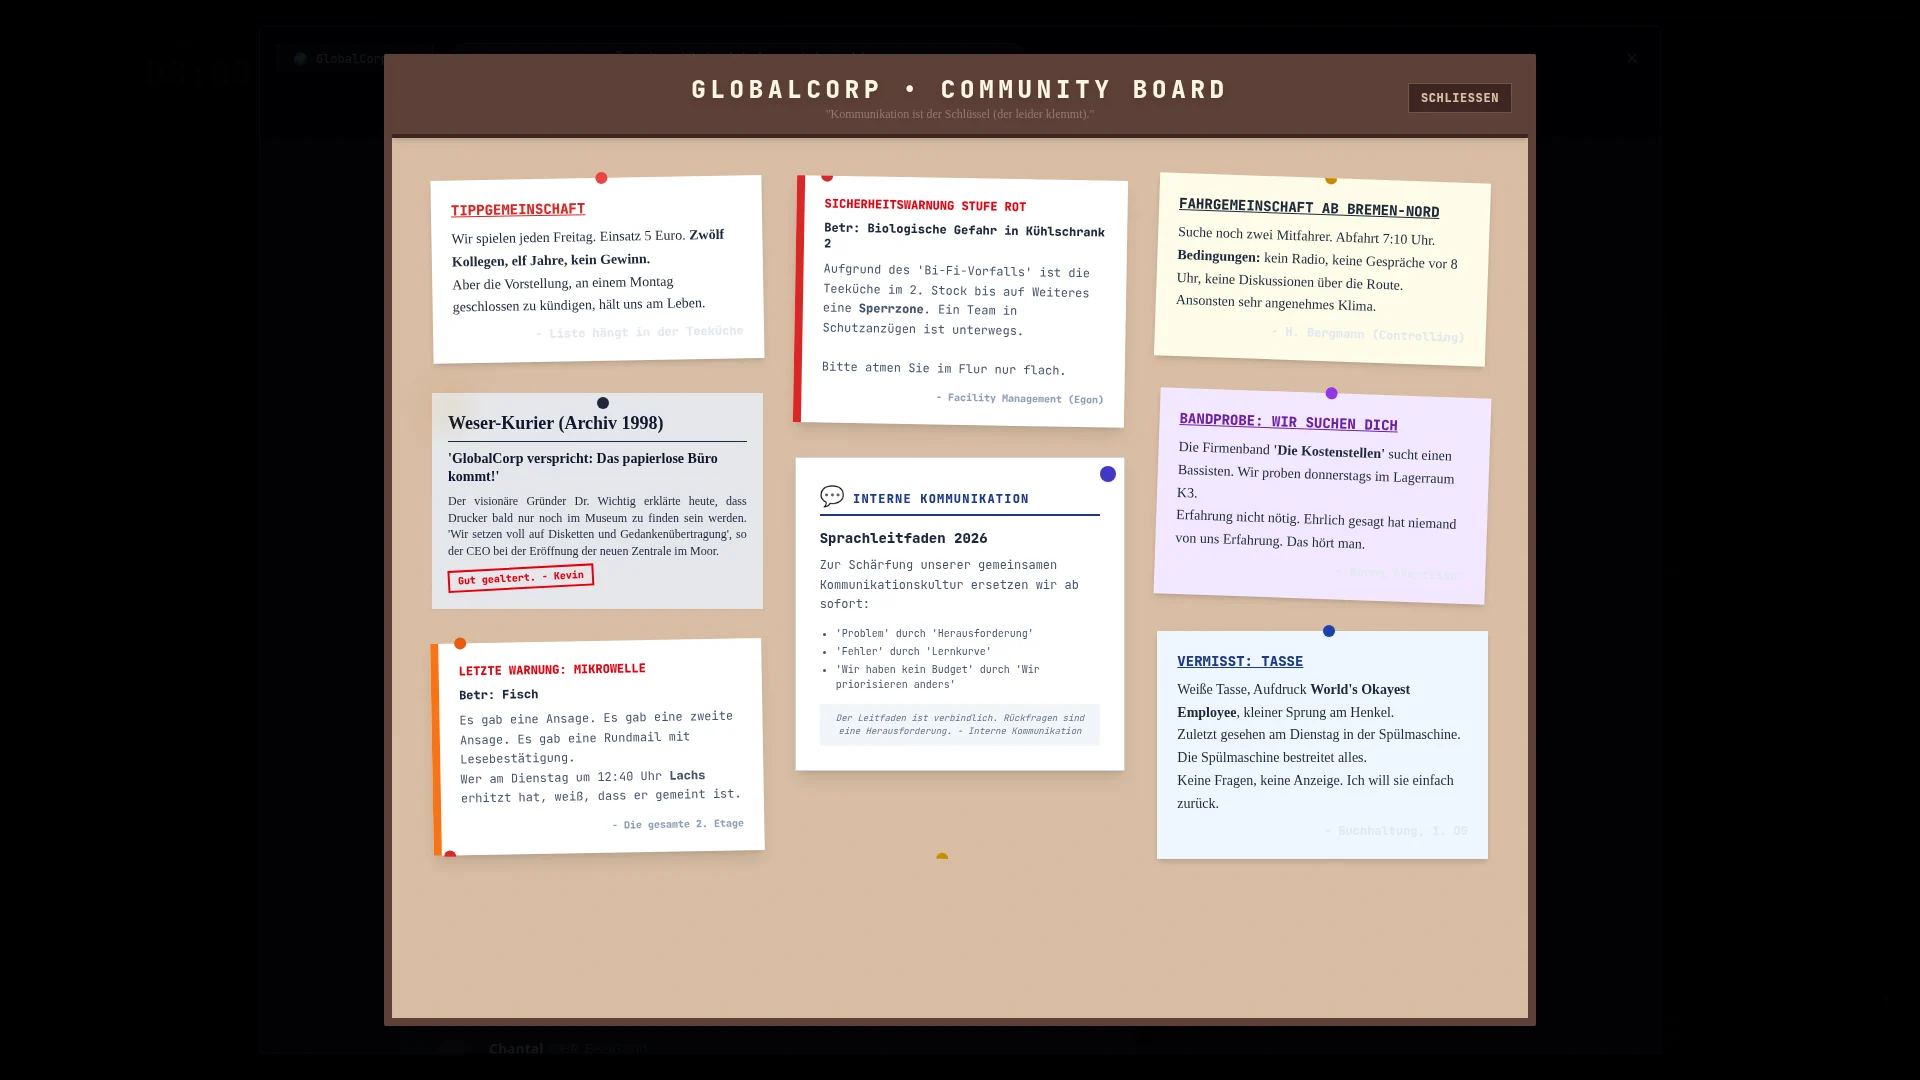
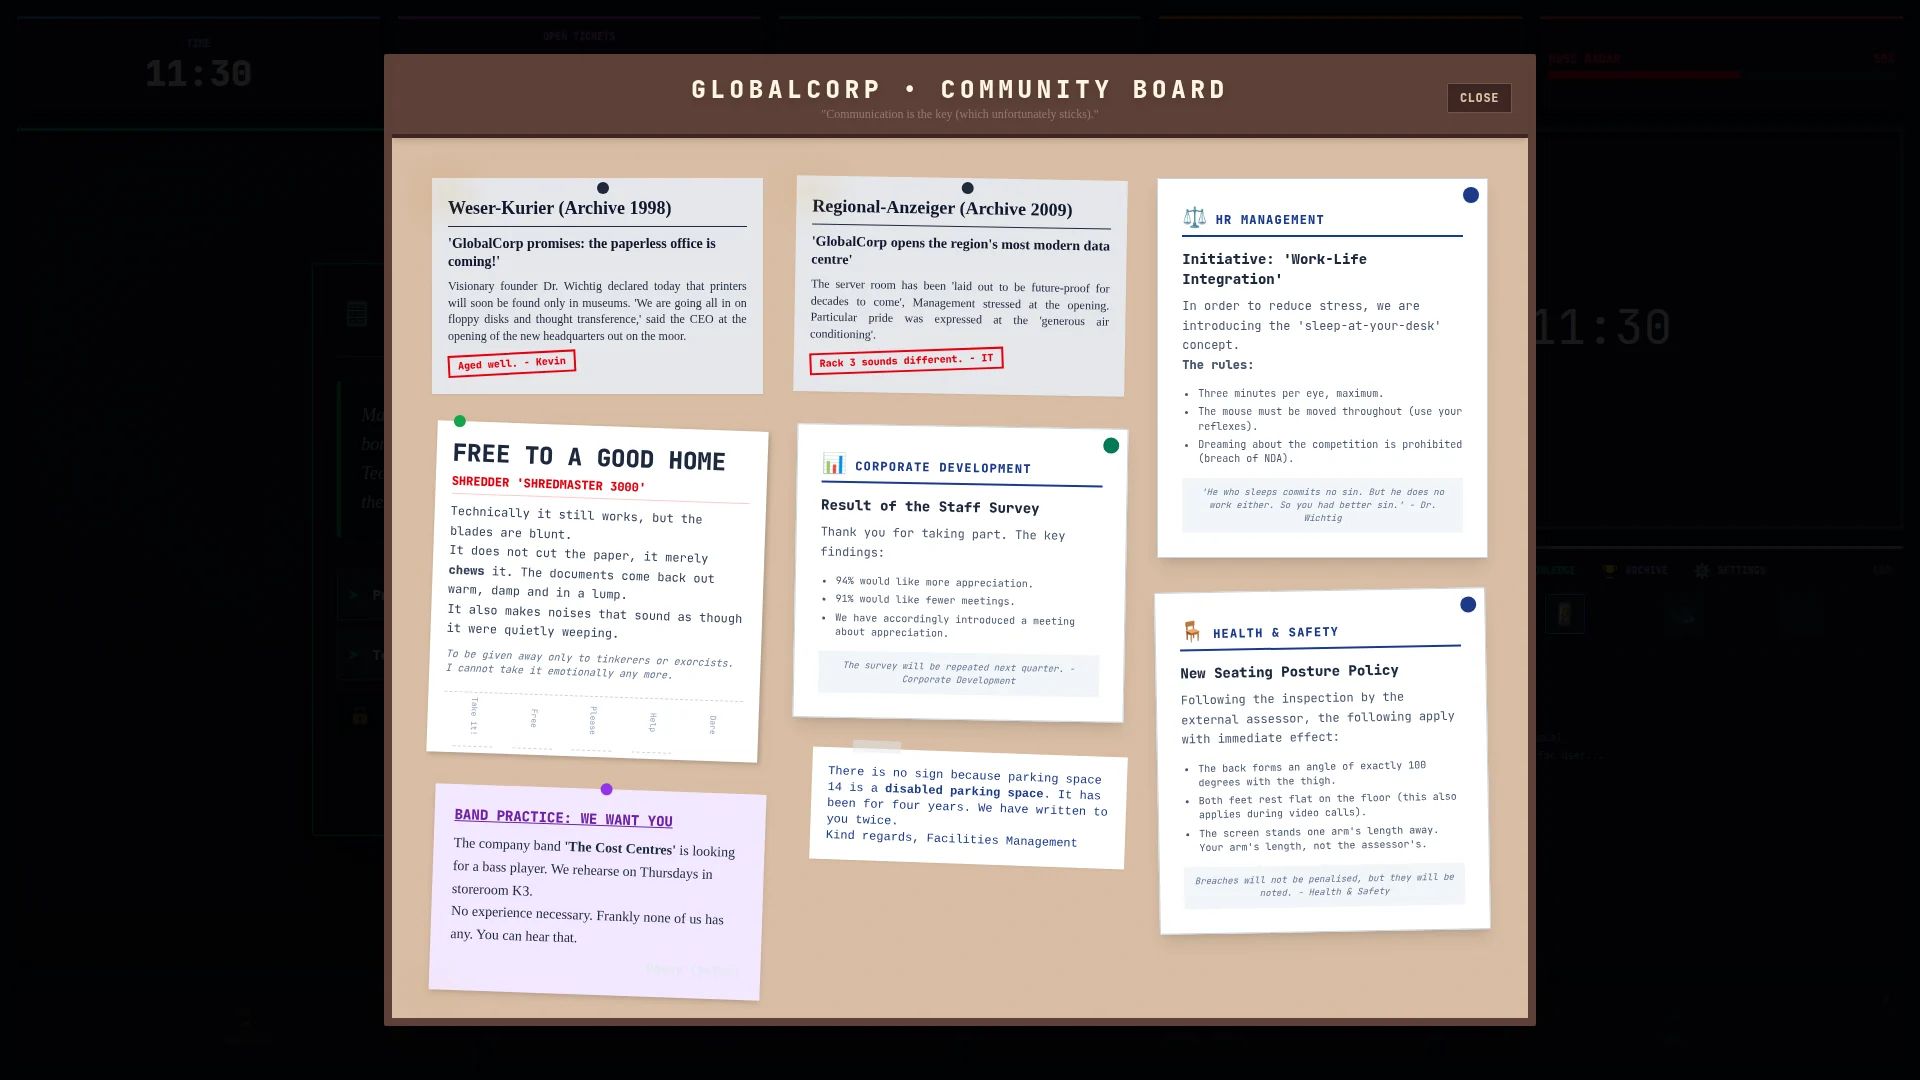
docs(readme): the screenshots speak English now
An English README with German pictures asked the reader to take the text
on trust. All five re-shot with layer8_lang set to 'en' before the first
paint, so the whole surface is English - header, bars, action bar, log and
the prose inside every event.

The driver carries the lessons of the German set and one new one: the
intranet is a Svelte component gated on state.intranetOpen, and
#intranet-root is only an empty mount point that never holds .hidden - so
asking the DOM about it answers "visible" forever. Every scene now asserts
which surface is up AND that the other three are not, and every file was
looked at before it shipped.

The hero is drawn FOR a shape rather than taken as it comes: three or more
options with at least one locked behind an item not carried. It found
Markus asking which of the boxes is the private cloud he has already sold,
portrait included, with the boot stick missing - that picture teaches the
item rule without a word.

Two captions followed the pictures. The intranet no longer reads zero days
without an incident, and the board draw holds different notes - so neither
caption names content a later re-shoot would contradict without being
checked again.

Changed region(s): [[0.2188, 0.1528, 0.7812, 0.9472], [0.7188, 0.0611, 0.7812, 0.1222]]

diff --git a/README.md b/README.md
@@ -27,7 +27,7 @@
 </p>
 
 <p align="center">
-  <img src="screenshots/serverraum.webp" width="100%" alt="The server room: an event with three options, two of them locked behind an item that is missing">
+  <img src="screenshots/serverraum.webp" width="100%" alt="The server room: Markus wants to know which of the boxes is the private cloud he has already sold">
 </p>
 
 ---
@@ -69,7 +69,7 @@ and you lose the whole week.
   <tr>
     <td width="50%">
       <img src="screenshots/intranet.webp" alt="The GlobalCorp intranet with corporate announcements">
-      <br><sub><b>The company intranet.</b> Days without incident in the server room: 0. The counter was reset this morning, as on most days.</sub>
+      <br><sub><b>The company intranet.</b> Four days without an incident in the server room, and an upward trend detected. The open-ticket deviation has been reported to the division head; a reply is not provided for.</sub>
     </td>
     <td width="50%">
       <img src="screenshots/team.webp" alt="The team view with seven colleagues and their reputation bars">
@@ -79,7 +79,7 @@ and you lose the whole week.
   <tr>
     <td width="50%">
       <img src="screenshots/brett.webp" alt="The notice board with handwritten and printed notes">
-      <br><sub><b>The notice board.</b> Eight notes out of thirty, redrawn every morning — from the red-level security warning to the lift share with conditions attached.</sub>
+      <br><sub><b>The notice board.</b> Eight notes out of thirty, redrawn every morning — among them a shredder going free to a good home, tear-off tabs included.</sub>
     </td>
     <td width="50%">
       <img src="screenshots/archiv.webp" alt="Career progress with found items, trophies and statistics">
